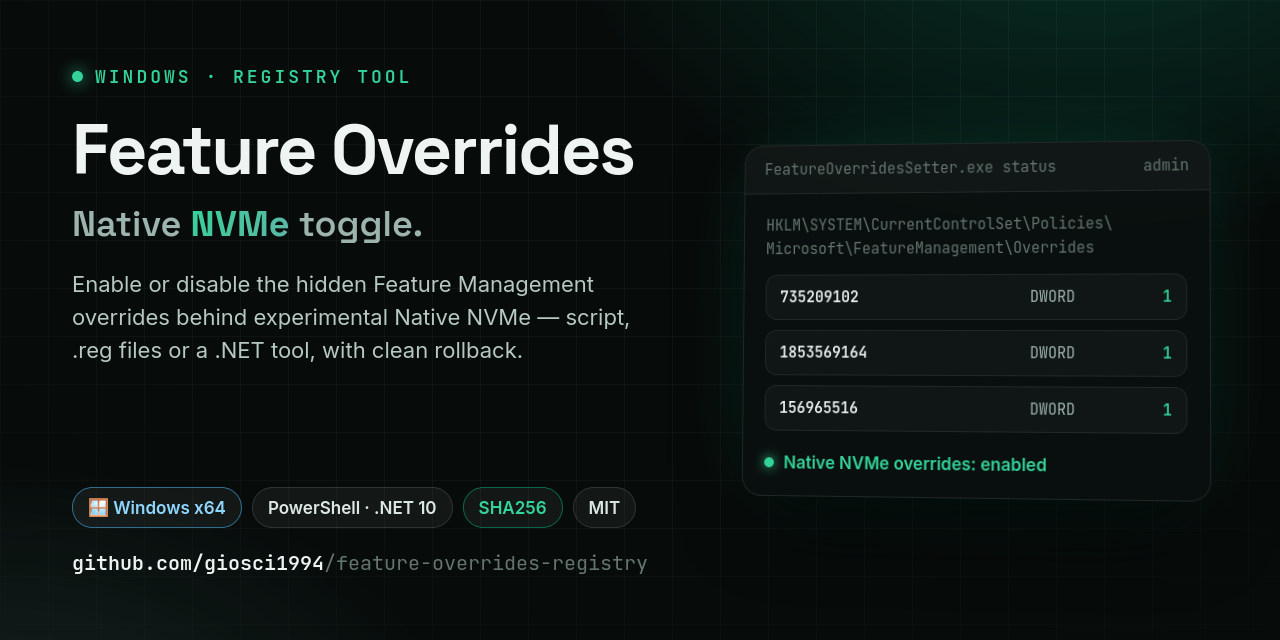
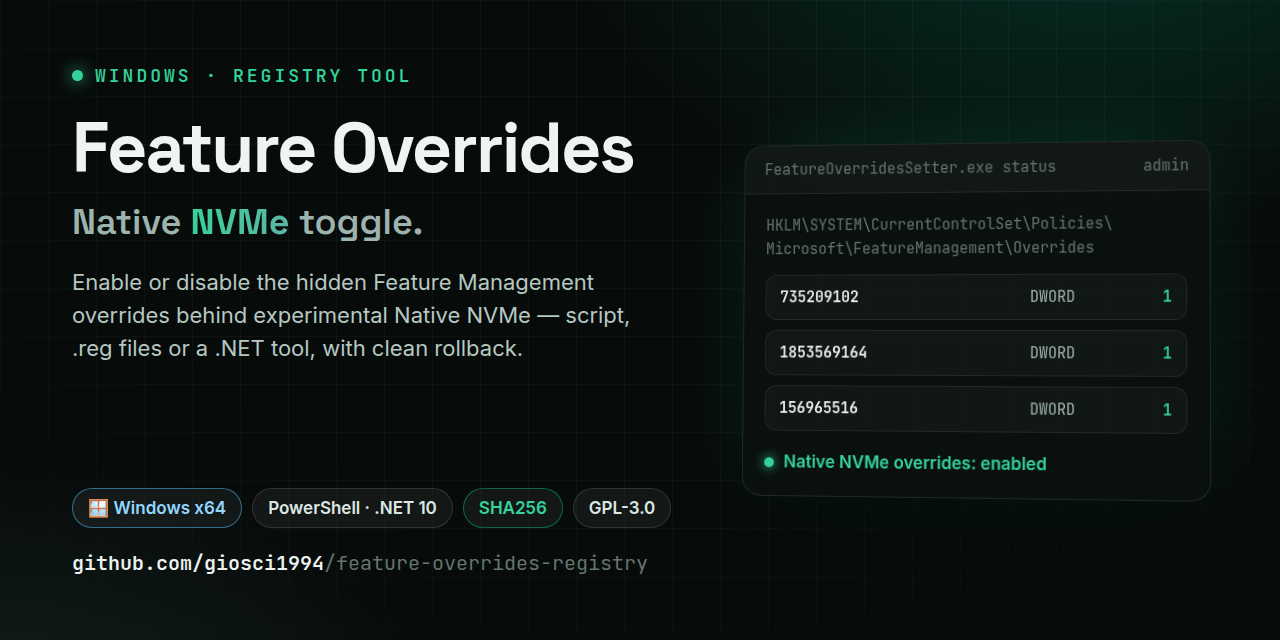
docs(license): update social preview to GPL-3.0

diff --git a/docs/social-preview.html b/docs/social-preview.html
@@ -153,7 +153,7 @@
           <span class="badge win">🪟 Windows x64</span>
           <span class="badge ">PowerShell · .NET 10</span>
           <span class="badge green">SHA256</span>
-          <span class="badge ">MIT</span>
+          <span class="badge ">GPL-3.0</span>
         </div>
         <div class="repo"><b>github.com/giosci1994</b>/feature-overrides-registry</div>
       </div>
